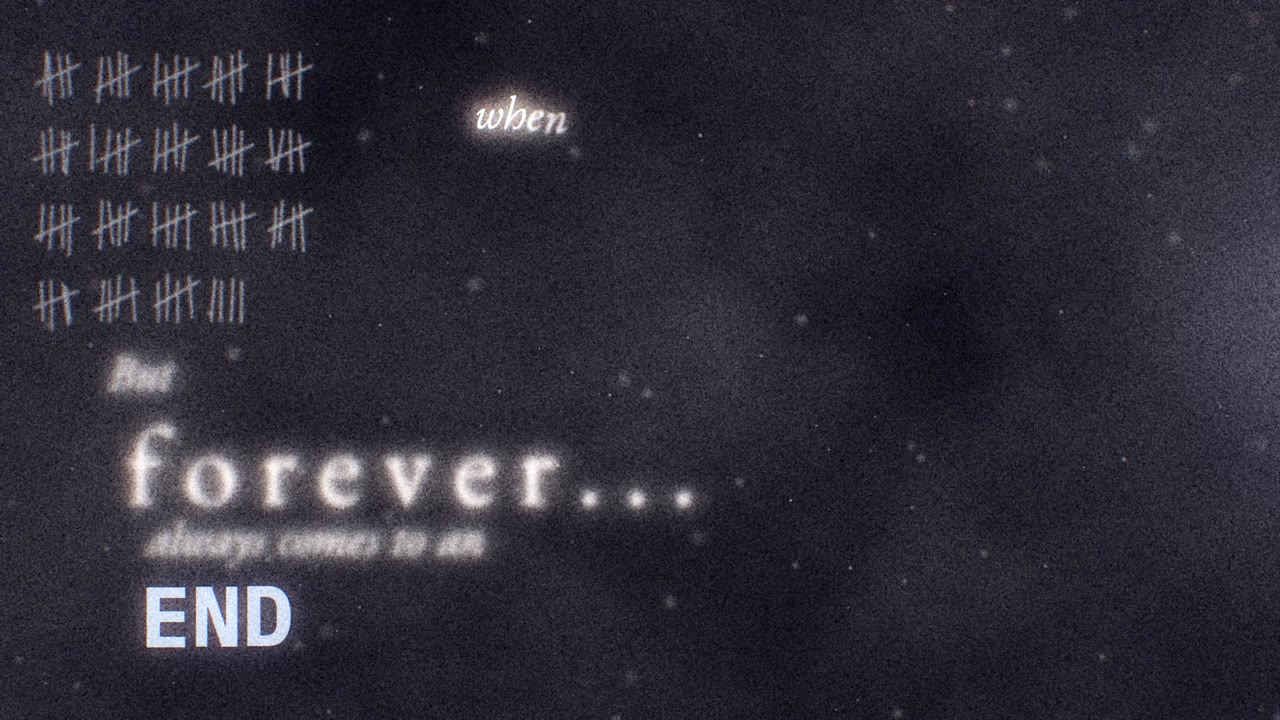
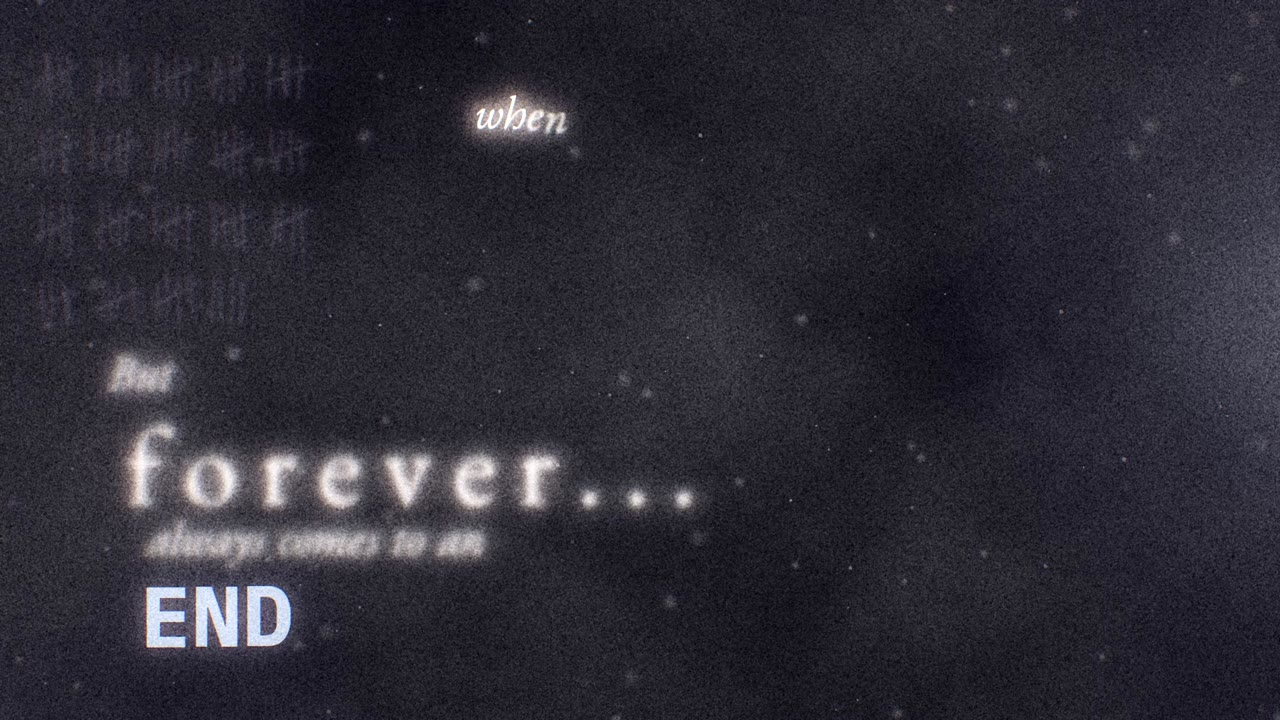
But...: the returning tally kept faint, a shade off the dark
Claude-Session: https://claude.ai/code/session_013aPae8dR11r7xw8o95d9Yi

Changed region(s): [[0.0312, 0.275, 0.25, 0.4583], [0.0312, 0.0611, 0.25, 0.1528], [0.0312, 0.1833, 0.25, 0.2444]]

diff --git a/storyboard/index.html b/storyboard/index.html
@@ -150,7 +150,7 @@ ol.steps li::marker { font: 600 0.85rem var(--mono); color: var(--ink-2); }
   </video>
   <figcaption><b>But...</b>
     <span class="tc">5:17.6 → 5:32.4 · bars 92–96</span>
-    <span class="note">Rebuilt: the one moment her prophecy comes true. The band never stops, so neither does the run; time comes back instead. On &#x27;But...&#x27; her tally returns and the bars the run didn&#x27;t count scratch back in, one per eighth note. On the sparse hits of &#x27;forever always comes to an end&#x27; the run&#x27;s warm lights go out one by one, leaving the darkest frame in the film; FOREVER and the rest let go and only the coats&#x27; END stays. In the dark the coats arrive as cold light swinging in from the right, round a bend (one flicker of the &#x27;coats&#x27; vision she saw in Refrain I as it turns toward us), and it swells with the band into their white, so White Coats III begins inside it, her count standing in it. <a href="renders/but_contact.jpg">Contact sheet</a></span></figcaption>
+    <span class="note">Rebuilt: the one moment her prophecy comes true. The band never stops, so neither does the run; time comes back instead. On &#x27;But...&#x27; her tally faintly returns and the bars the run didn&#x27;t count scratch back in, one per eighth note. On the sparse hits of &#x27;forever always comes to an end&#x27; the run&#x27;s warm lights go out one by one, leaving the darkest frame in the film; FOREVER and the rest let go and only the coats&#x27; END stays. In the dark the coats arrive as cold light swinging in from the right, round a bend (one flicker of the &#x27;coats&#x27; vision she saw in Refrain I as it turns toward us), and it swells with the band into their white, so White Coats III begins inside it, her count standing in it. <a href="renders/but_contact.jpg">Contact sheet</a></span></figcaption>
 </figure>
 <figure class="render" id="render-the_run">
   <video controls playsinline preload="metadata" poster="renders/the_run_poster.jpg" width="1280" height="720">

diff --git a/storyboard/spec.py b/storyboard/spec.py
@@ -250,7 +250,7 @@ STYLE_FRAMES = [
 # Sections built so far: (slug, section name, note shown under the player)
 RENDERS = [
     ("but", "But...",
-     "Rebuilt: the one moment her prophecy comes true. The band never stops, so neither does the run; time comes back instead. On 'But...' her tally returns and the bars the run didn't count scratch back in, one per eighth note. On the sparse hits of 'forever always comes to an end' the run's warm lights go out one by one, leaving the darkest frame in the film; FOREVER and the rest let go and only the coats' END stays. In the dark the coats arrive as cold light swinging in from the right, round a bend (one flicker of the 'coats' vision she saw in Refrain I as it turns toward us), and it swells with the band into their white, so White Coats III begins inside it, her count standing in it.",
+     "Rebuilt: the one moment her prophecy comes true. The band never stops, so neither does the run; time comes back instead. On 'But...' her tally faintly returns and the bars the run didn't count scratch back in, one per eighth note. On the sparse hits of 'forever always comes to an end' the run's warm lights go out one by one, leaving the darkest frame in the film; FOREVER and the rest let go and only the coats' END stays. In the dark the coats arrive as cold light swinging in from the right, round a bend (one flicker of the 'coats' vision she saw in Refrain I as it turns toward us), and it swells with the band into their white, so White Coats III begins inside it, her count standing in it.",
     ),
     ("the_run", "The Run",
      "The one time they are free. Warm and fast, but nothing pulses and nothing comes at the viewer: speed is sideways (long-exposure streaks, motel and diner photographs rushing past, light trails behind her words). No tally marks: time isn't counted here. four 'ran's (no ellipses) scattered across the frame; FOREVER / EVER; TUNNEL / MOTEL; 'lost' turns good (LOST / LOST, lost in each OTHER); FOUND with its echo. Then the title is sung outright: 'lost and found' set plainly in the title's place, and its words slide past each other into 'found and lost...'. 'Forever and ever and ever' steps down and lets go before 'But...'.",

diff --git a/video/sections.py b/video/sections.py
@@ -846,11 +846,10 @@ def but(t, T, lines):
         k = int((t - t_but) / eighth) + 1
         cnt = min(n_now, n_run + k)
         catching = cnt < n_now
-        a_t = 0.85 * (1 - 0.45 * smooth(ramp(t, end_t or t_but, (end_t or t_but) + 3)))
-        a_t *= smooth(ramp(t, t_but, t_but + 0.9))                      # the old count returns
-        col = hexc("#C9C2CF") * (1 - flood) + hexc("#1C1E24") * flood   # light in the dark, ink on white
+        a_t = 0.42 * smooth(ramp(t, t_but, t_but + 0.9))                # the old count returns, faint
+        col = hexc("#6E6478") * (1 - flood) + hexc("#2A2D33") * flood   # a shade off the dark; ink on white
         img = look.tally(img, t, T, count=cnt if catching else None, alpha=a_t, color=col,
-                         blur=1.0, fade=1.0)
+                         blur=2.0, fade=0.8)
     p = post("run")
     p = _mix_post(p, post("night"), 1 - warmth)
     p = _mix_post(p, post("institute", exposure=1.02), flood)
